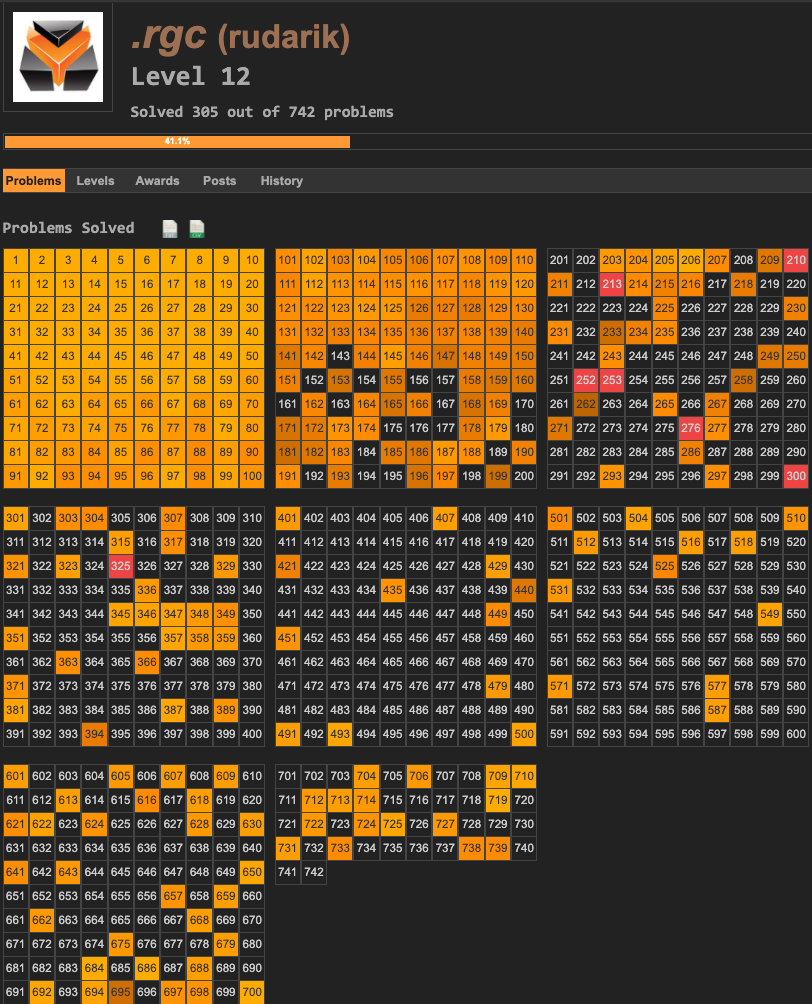
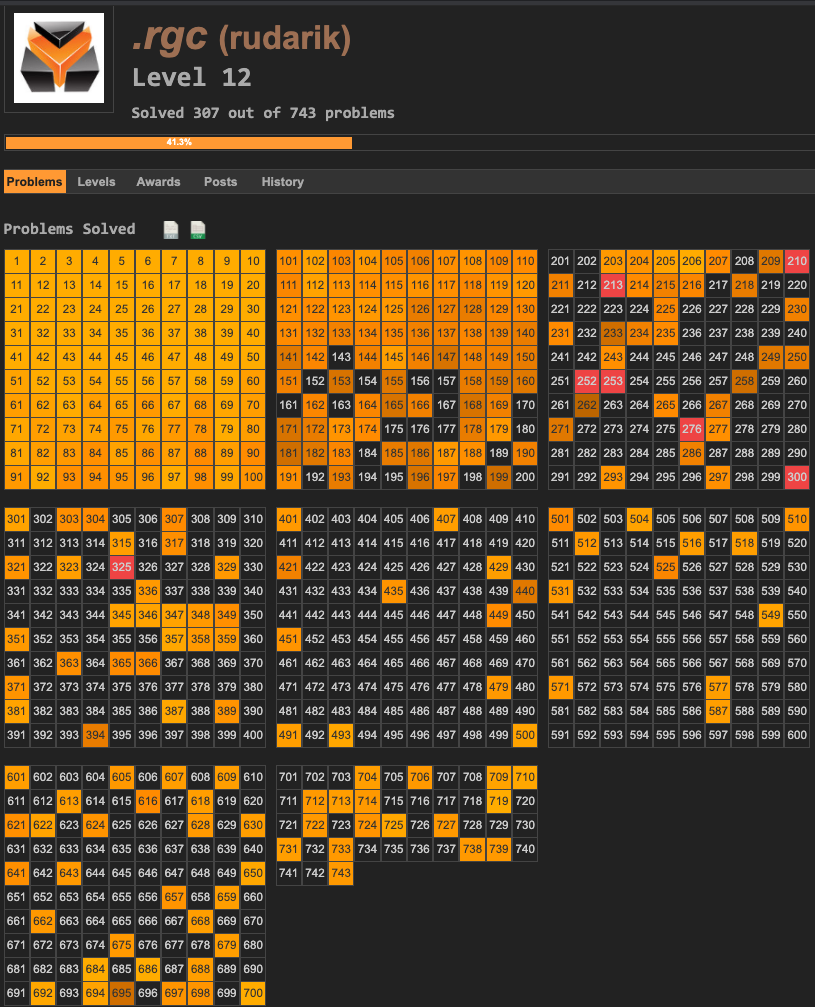
solved 743 and 365

diff --git a/README.md b/README.md
@@ -181,6 +181,10 @@ My current progress:
 
     * Problem 209: "Circular Logic"
 
+* [Lucas Theorem](https://en.wikipedia.org/wiki/Lucas%27s_theorem)
+
+    * Problem 365: "A huge binomial coefficient"
+
 * [Maximum subarray problem](https://en.wikipedia.org/wiki/Maximum_subarray_problem#Kadane's_algorithm)
 
     * Problem 213: "Searching for a maximum-sum subsequence"
